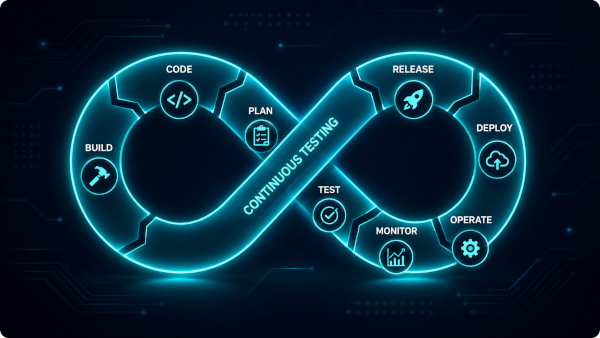
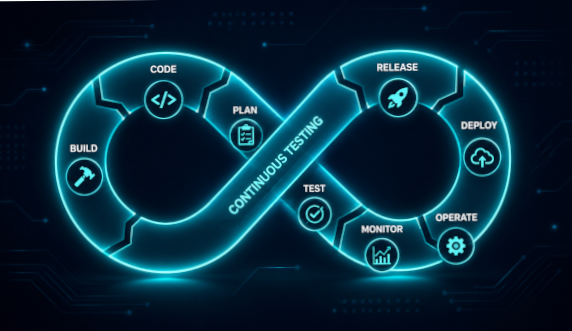
adjusted padding and card size

diff --git a/css/projects.css b/css/projects.css
@@ -40,15 +40,17 @@
 }
 
 .projects-h3 {
-  font-size: 1.5rem;
+  font-size: 1rem;
   color: var(--text);
   text-align: center;
+  padding: 8px;
 }
 
 .projects-h4 {
-  font-size: 1rem;
+  font-size: 1.5rem;
   color: var(--accent);
   text-align: center;
+  padding-bottom: 8px;
 }
 
 .projects-p {
@@ -61,32 +63,18 @@
   padding-top: 8px;
   position: relative;
   width: 100%;
-  height: 256px;
+  height: 300px;
   overflow: hidden;
   border-radius: 15px;
-}
-
-.projects-video iframe {
-  width: 100%;
-  height: 100%;
-  border: 0;
-  display: block;
 }
 
 .projects-website {
   padding-top: 8px;
   position: relative;
   width: 100%;
-  height: 256px;
+  height: 300px;
   overflow: hidden;
   border-radius: 15px;
-}
-
-.projects-website iframe {
-  width: 100%;
-  height: 100%;
-  border: 0;
-  display: block;
 }
 
 .hover-video {

diff --git a/indexSV.html b/indexSV.html
@@ -272,11 +272,16 @@
             <h3 class="projects-h3">Ravenfjord-Reserve</h3>
             <h4 class="projects-h4">Fantasyinspirerad responsiv webbplats</h4>
             <div class="projects-website">
-              <iframe
-                src="https://dannellbayer.com/Ravenfjord-Reserve/"
-                title="Ravenfjord Reserve"
+              <a
+                href="https://dannellbayer.com/Ravenfjord-Reserve/"
+                target="_blank"
+                rel="noopener noreferrer"
               >
-              </iframe>
+                <img
+                  src="images/ravenfjord.png"
+                  alt="Ravenfjord Reserve screenshot"
+                />
+              </a>
             </div>
             <p class="projects-p">
               En fantasyinspirerad responsiv webbplats med nordisk mytologi som

diff --git a/index.html b/index.html
@@ -285,9 +285,6 @@
                 <img
                   src="images/ravenfjord.png"
                   alt="Ravenfjord Reserve screenshot"
-                  width="600"
-                  height="488"
-                  style="height: auto"
                 />
               </a>
             </div>